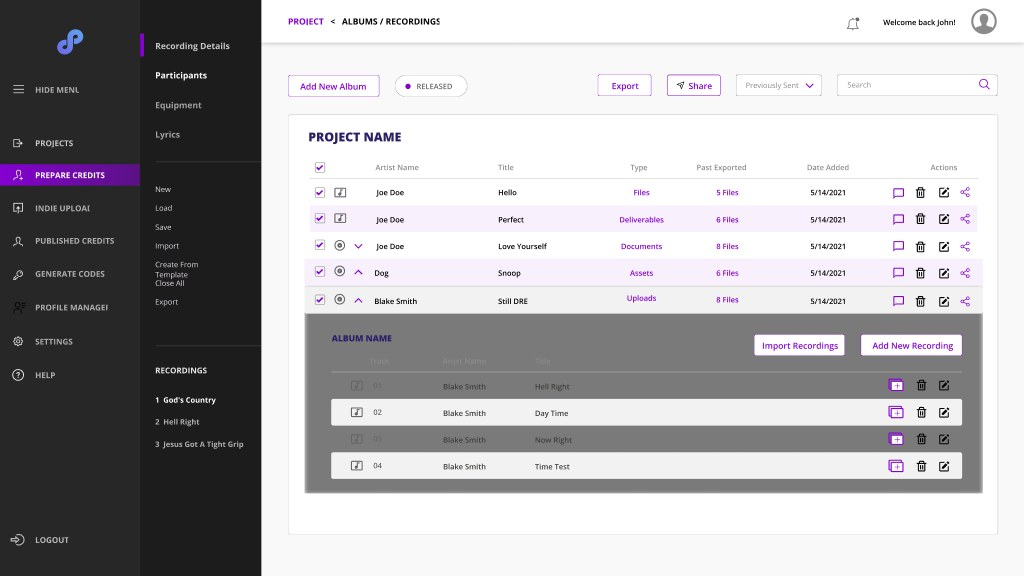
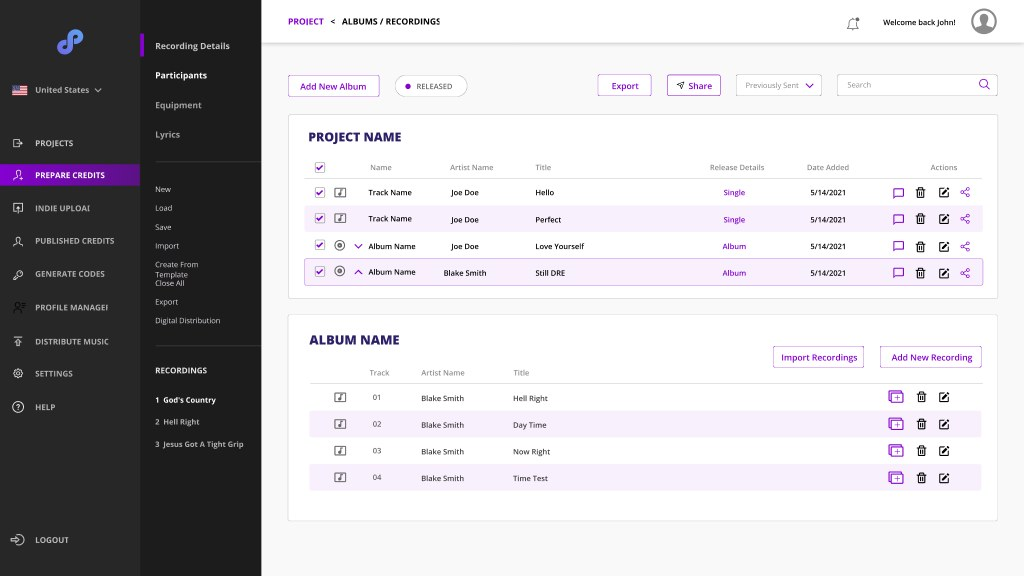
style: recapture Sound Credit images 2 and 4
Image 2 now uses the Option 2 album layout, with step 2's copy to match;
image 4 picks up the updated add-credit modal.

diff --git a/projects/soundcredit.html b/projects/soundcredit.html
@@ -789,9 +789,9 @@ footer{padding:48px 64px 64px;border-top:1px solid var(--line);display:flex;just
       <li class="flow-step">
         <div class="flow-copy">
           <span class="flow-num" aria-hidden="true">02</span>
-          <div><h3>Open a project into its recordings</h3><p>A project opens to its recordings. An album expands in place to its tracks, with import and add-recording right there, and a left rail keeps the release&rsquo;s recordings one click away.</p><p class="flow-why">Why: albums are where credits multiply, so they stay in one view.</p></div>
+          <div><h3>Open a project into its recordings</h3><p>A project opens to its singles and albums. Selecting an album shows its tracks in a table right below, with import and add-recording there, and a left rail keeps the release&rsquo;s recordings one click away.</p><p class="flow-why">Why: albums are where credits multiply, so they stay in one view.</p></div>
         </div>
-        <button class="flow-shot gallery-item" data-src="soundcredit-img/02-album-recordings.jpg" aria-label="Enlarge: Open a project into its recordings"><img src="soundcredit-img/02-album-recordings.jpg" alt="Sound Credit album view: a project's recordings, with one album expanded to its four tracks and import and add recording buttons" width="1024" loading="lazy"></button>
+        <button class="flow-shot gallery-item" data-src="soundcredit-img/02-album-recordings.jpg" aria-label="Enlarge: Open a project into its recordings"><img src="soundcredit-img/02-album-recordings.jpg" alt="Sound Credit album view: a project's singles and albums, with the selected album's four tracks in a table below and import and add recording buttons" width="1024" loading="lazy"></button>
       </li>
       <li class="flow-step">
         <div class="flow-copy">
